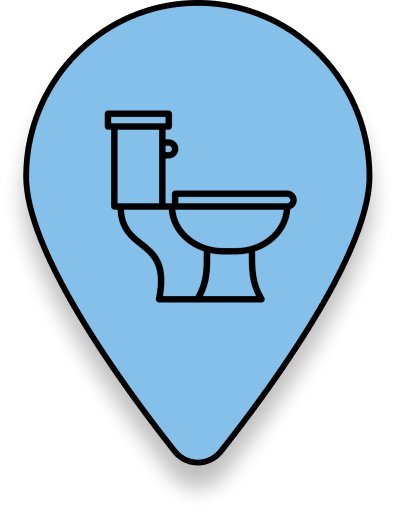
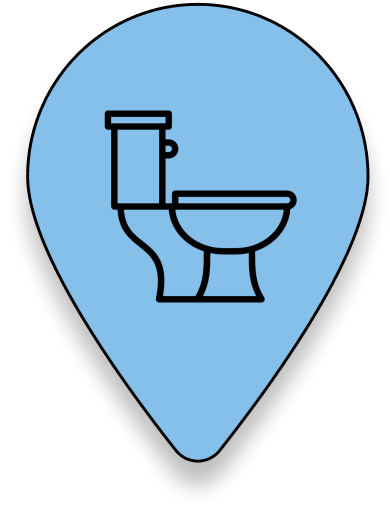
redesigned pointers and seeds are Yoda quotes

diff --git a/db/seeds.rb b/db/seeds.rb
@@ -20,7 +20,7 @@ restroom1 = Restroom.create!(
   address: "Europaplatz 1, 10557 Berlin",
   accessibility: true,
   baby_friendly: true,
-  pricing: 0.50,
+  pricing: 1,
   longitude: 13.3695,
   latitude: 52.5250,
   user_id: User.second.id,
@@ -39,7 +39,7 @@ restroom2 = Restroom.create!(
   address: "Friedrichstraße 123, 10117 Berlin",
   accessibility: true,
   baby_friendly: true,
-  pricing: 0.50,
+  pricing: 1,
   longitude: 13.3889,
   latitude: 52.5200,
   user_id: User.second.id,
@@ -91,7 +91,7 @@ restroom5 = Restroom.create!(
   address: "Panoramastraße 1A, 10178 Berlin",
   accessibility: false,
   baby_friendly: true,
-  pricing: 0.50,
+  pricing: 1,
   longitude: 13.3695,
   latitude: 52.5250,
   user_id: User.second.id,
@@ -139,7 +139,7 @@ restroom7.save!
 
 Restroom.all.each do |restroom|
   rand(3..4).times do
-    comment = Faker::Lorem.paragraph[0..19]
+    comment = Faker::Quote.yoda
     Review.create!(
       rating: rand(1..5),
       comment: comment,
